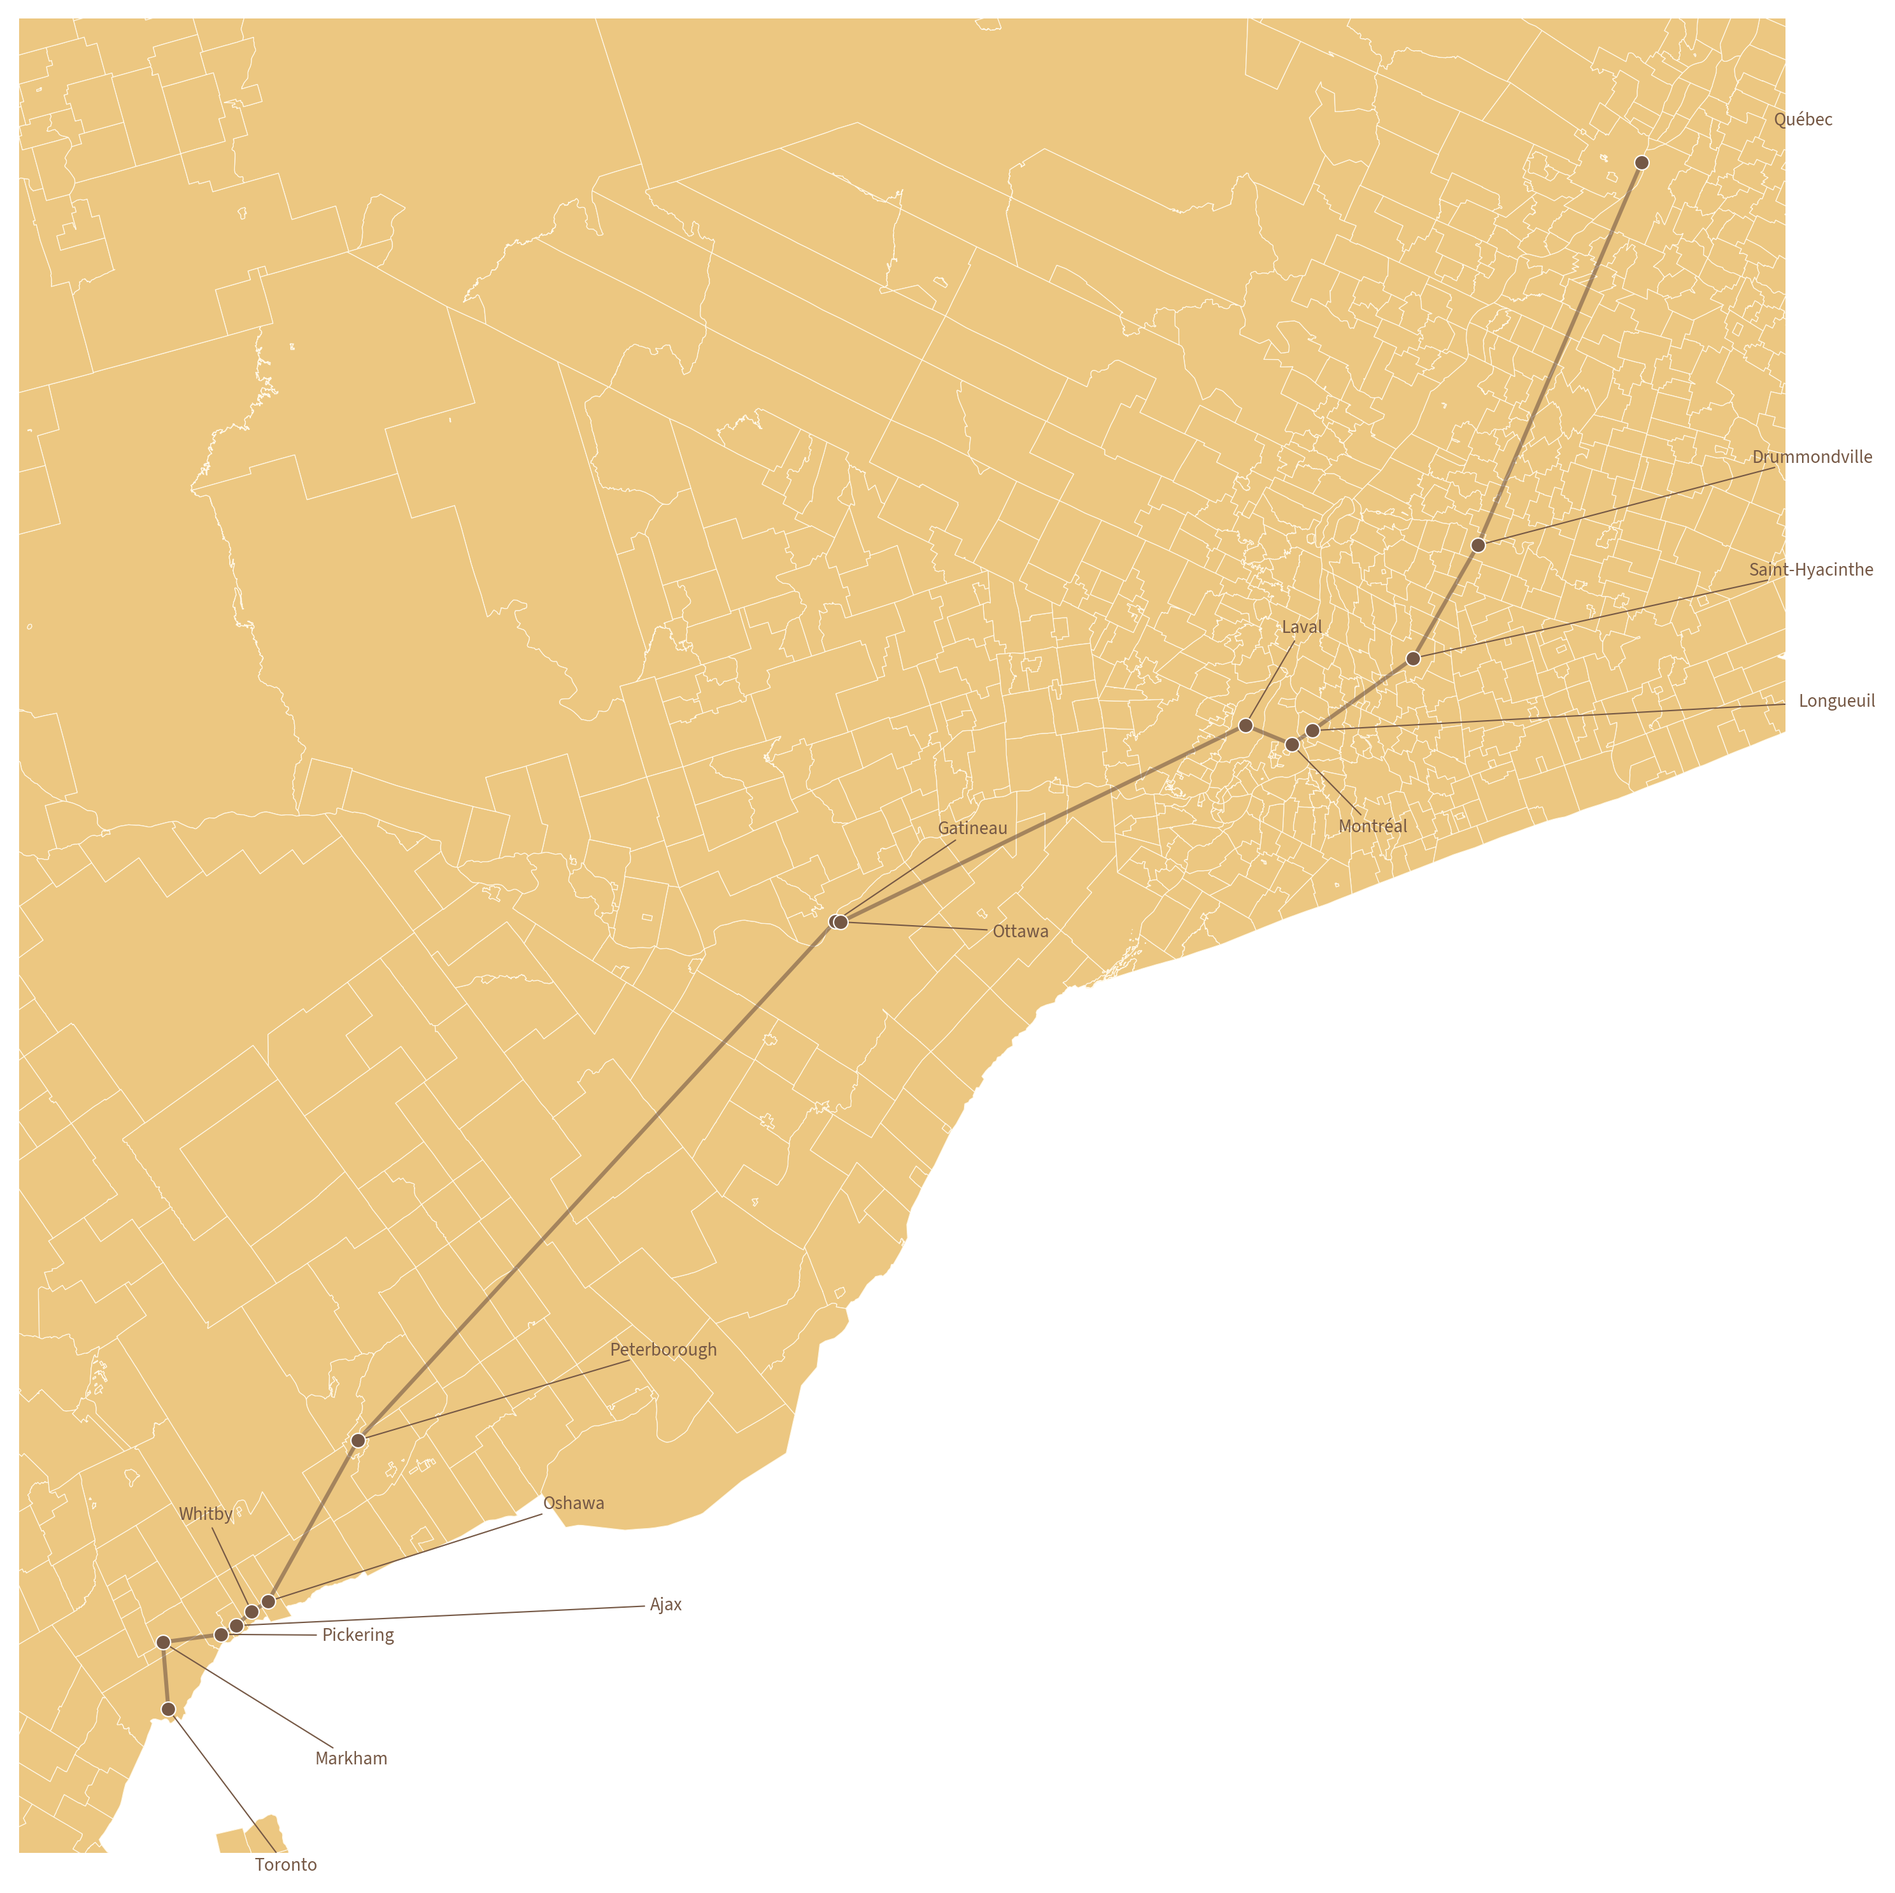
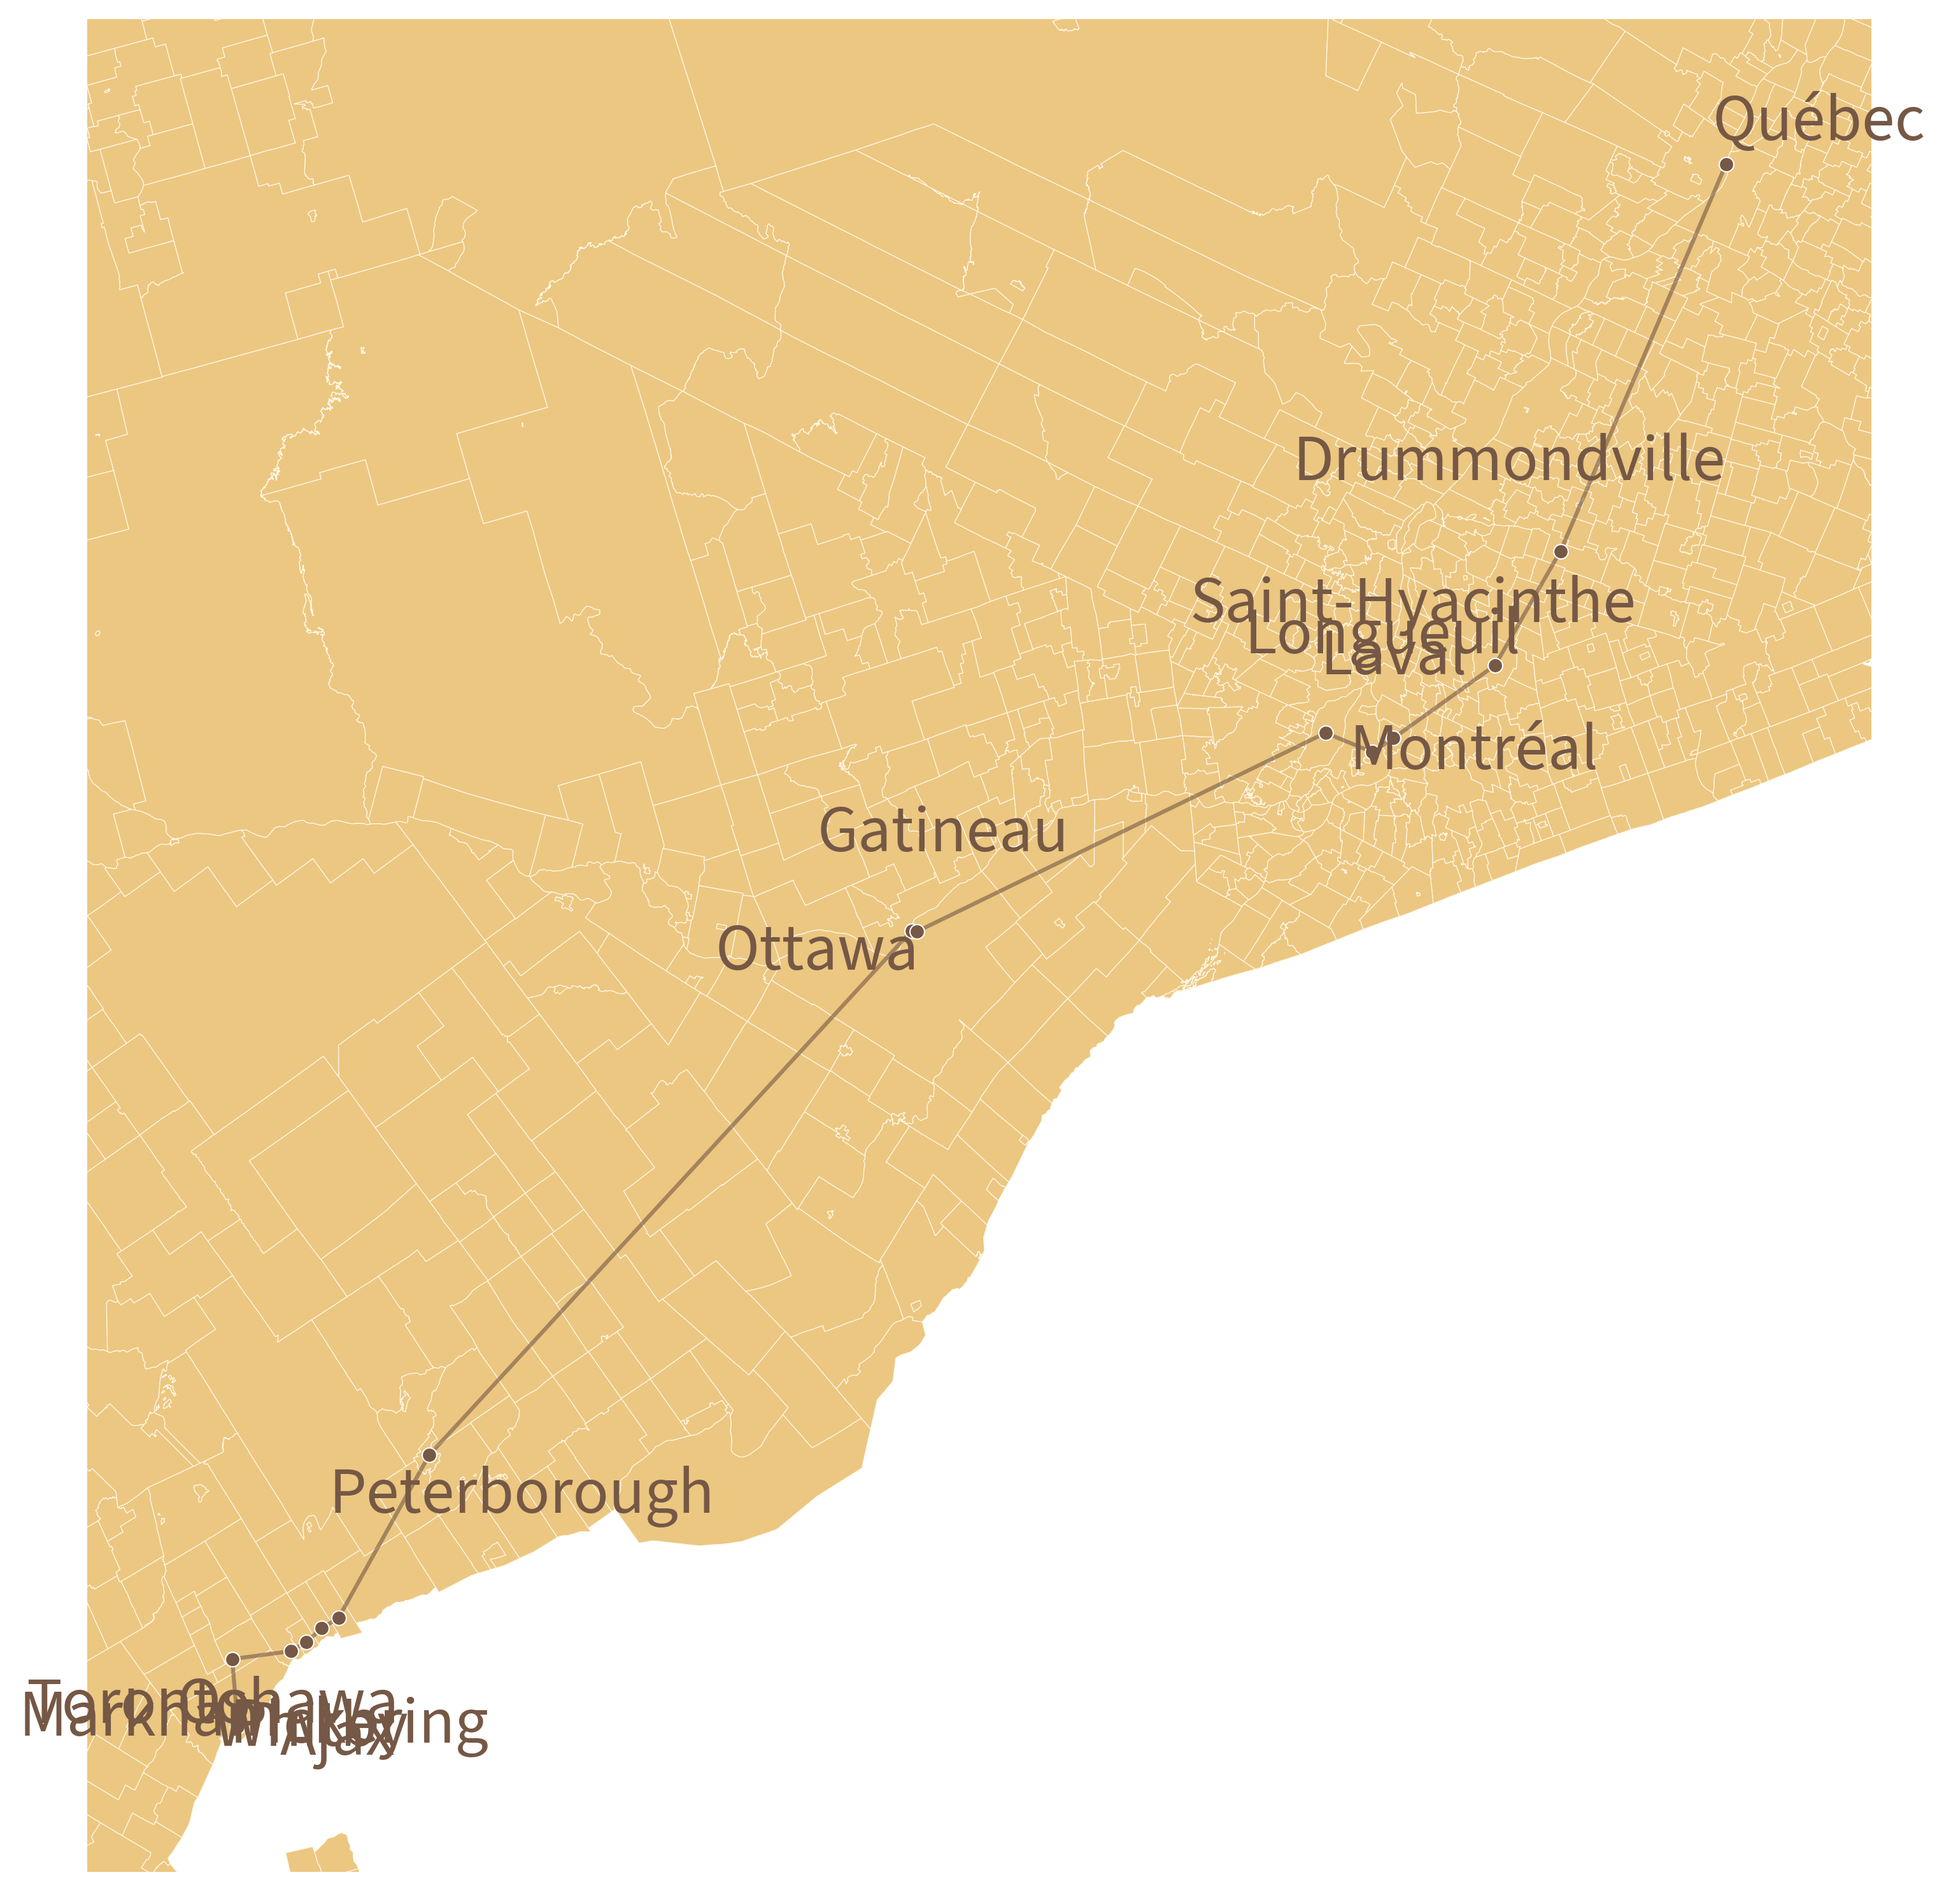
generated new maps

diff --git a/plot.py b/plot.py
@@ -13,6 +13,8 @@ import pandas as pd
 import os
 import pathlib
 import json
+import numpy as np
+
 
 # === CONFIG ===
 CITIES_CSV_PATH = "data/cities_with_coordinates.csv"
@@ -190,7 +192,6 @@ def plot_map(
                 print(
                     f"Warning: Could not find city coordinates for: {', '.join(missing)}"
                 )
-
     # Plot city markers
     cities_to_plot.plot(
         ax=ax,
@@ -202,27 +203,34 @@ def plot_map(
         zorder=3,
     )
 
-    # Add city labels for all cities (no overlap)
-    texts = []
-    for _, row in cities_to_plot.iterrows():
-        x, y = row.geometry.x, row.geometry.y
-        texts.append(
-            ax.text(
-                x, y,
-                row["City_Name"],
-                fontsize=7,
-                fontproperties=font_prop,
-                color=POINT_COLOR,
-                zorder=5,
-            )
-        )
+    # Simple global offset for all labels (meters in EPSG:3978)
+    LABEL_DX = 7000   # move a bit to the right
+    LABEL_DY = 7000   # move a bit up
 
-    # Automatically adjust labels to avoid overlap
-    adjust_text(
-        texts,
-        ax=ax,
-        arrowprops=dict(arrowstyle="-", color=POINT_COLOR, lw=0.5)
-    )
+    # --- Radial label placement to avoid overlap automatically ---
+    LABEL_DISTANCE = 35000  # meters from the point
+
+    n = len(cities_to_plot)
+    angles = np.linspace(0, 2*np.pi, n, endpoint=False)
+
+    for angle, (_, row) in zip(angles, cities_to_plot.iterrows()):
+        name = row["City_Name"]
+        x, y = row.geometry.x, row.geometry.y
+
+        dx = LABEL_DISTANCE * np.cos(angle)
+        dy = LABEL_DISTANCE * np.sin(angle)
+
+        ax.text(
+            x + dx,
+            y + dy,
+            name,
+            fontsize=25,
+            fontproperties=font_prop,
+            color=POINT_COLOR,
+            zorder=5,
+            ha="center",
+            va="center",
+        )
 
 
     # Set axis limits to zoom in on cities
@@ -265,7 +273,10 @@ def main():
     plot_map(canada_gdf,
         cities_gdf,
         city_links=city_links,
-        selected_cities=selected_cities,)
+        selected_cities=selected_cities,
+        show=False,
+        )
+    
     print(f"✅ Saved map to {OUT_PNG}")
 
 
